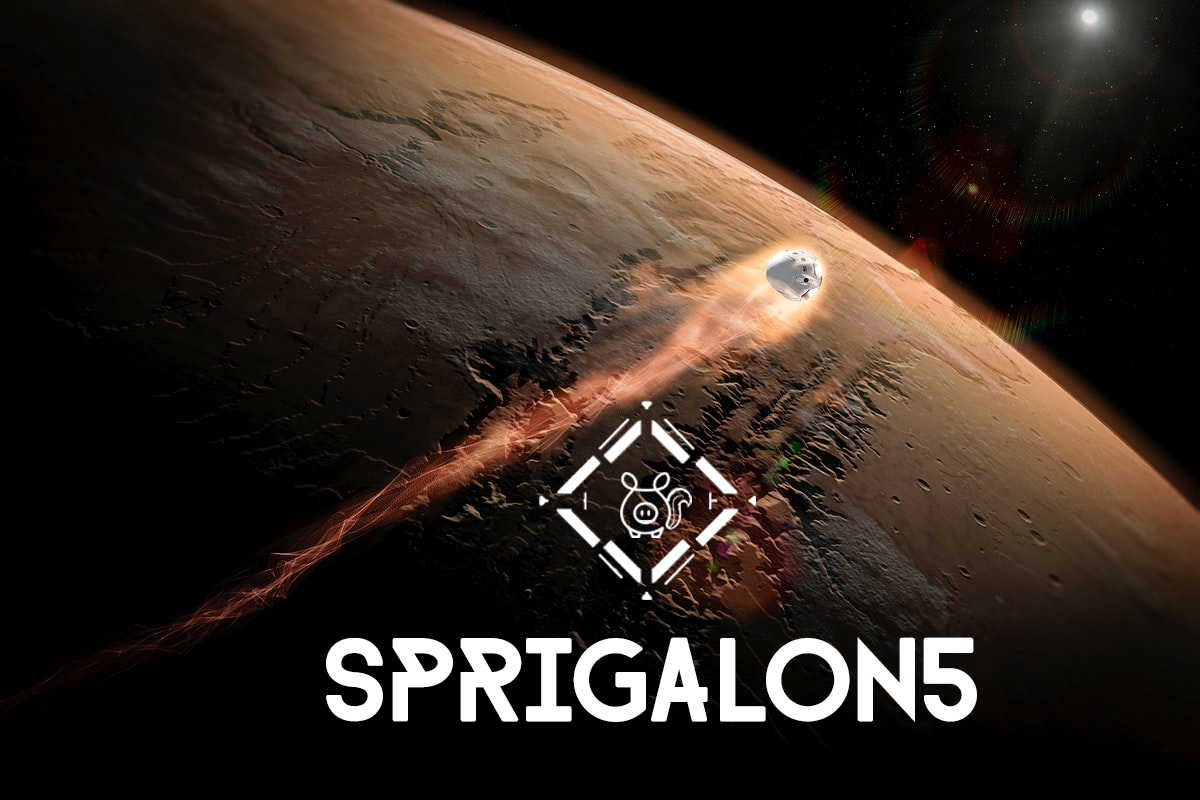
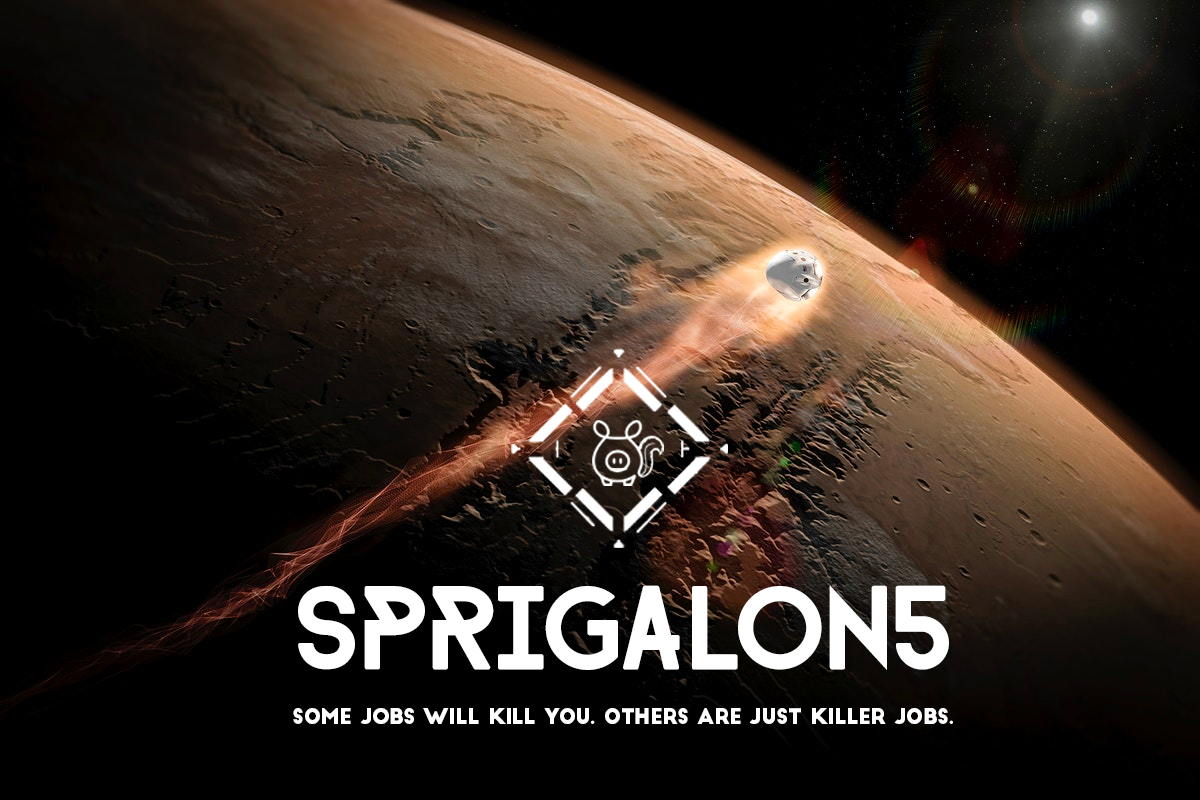
added name SRIGALON5 to the ship and updated graphic

Changed region(s): [[0.2467, 0.4375, 0.8325, 0.9062]]

diff --git a/sprigalon5.py b/sprigalon5.py
@@ -95,7 +95,7 @@ ship = {
     'south': 9,
     'mapname': 'Ship',
     'mapDescript': 'A wrecked spaceship',
-    'aText': "\tYou are on your ship. It is safe here.",
+    'aText': "\tYou are on your ship. The SRIGALON5. It is safe here.",
     'aText2': "\tAfter a night of rest, you feel refreshed.\n\tYou know that if this ship is ever going to\n\tfly again though, you will need to find\n\tsome pulse crystals. \n\tHealth at 100%."
 }
 
@@ -1174,7 +1174,7 @@ def finish():
     print("Hit ENTER to continue")
     input("> ")
     screen_clear()
-    print("\tIT WORKS!")
+    print("\tIT WORKS! The SRIGALON5 roars to life")
     print("\n" * 3)
     print("Hit ENTER to continue")
     input("> ")
